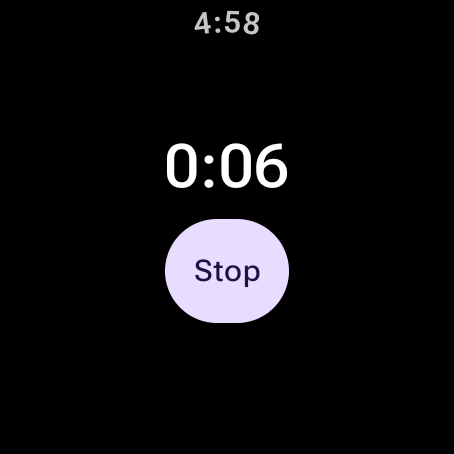
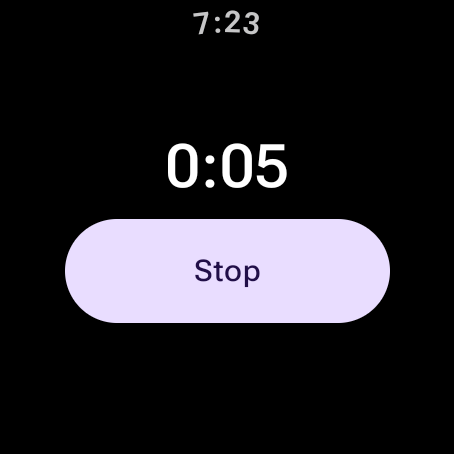
feat(ui): UI review changes and Material You theme
Wider Stop for wet hands, Summary leads with 'n of 5 look covered', tonal History rows with a shorter too-short hint, Wrist side as two radio buttons, and the notification permission asked on the first Start tap. The theme uses the device's dynamicColorScheme and falls back to the default palette. Audit screenshots retaken.

diff --git a/wear/src/main/java/com/hapticwash/ui/MainActivity.kt b/wear/src/main/java/com/hapticwash/ui/MainActivity.kt
@@ -44,7 +44,9 @@ import androidx.wear.compose.material3.CircularProgressIndicator
 import androidx.wear.compose.material3.CircularProgressIndicatorDefaults
 import androidx.wear.compose.material3.FilledTonalButton
 import androidx.wear.compose.material3.ListHeader
+import androidx.wear.compose.material3.ListSubHeader
 import androidx.wear.compose.material3.MaterialTheme
+import androidx.wear.compose.material3.RadioButton
 import androidx.wear.compose.material3.ScreenScaffold
 import androidx.wear.compose.material3.SwitchButton
 import androidx.wear.compose.material3.Text
@@ -103,19 +105,24 @@ private fun StartScreen(onWash: () -> Unit, onHistory: () -> Unit, onSettings: (
     val context = LocalContext.current
     val status by WashService.status.collectAsState()
     var timerOnly by remember { mutableStateOf(false) }
-    val askNotifications = rememberLauncherForActivityResult(ActivityResultContracts.RequestPermission()) {}
+    fun begin() {
+        if (!status.running) WashService.start(context)
+        onWash()
+    }
+    // Asked on the first Start, not at launch; the Wash begins whatever the answer.
+    val askNotifications = rememberLauncherForActivityResult(ActivityResultContracts.RequestPermission()) { begin() }
     LaunchedEffect(Unit) {
         // Loads the model off the main thread; also the release smoke check's log line.
         timerOnly = withContext(Dispatchers.Default) { StepModel.bundled(context) == null }
-        if (context.checkSelfPermission(Manifest.permission.POST_NOTIFICATIONS) != PackageManager.PERMISSION_GRANTED) {
-            askNotifications.launch(Manifest.permission.POST_NOTIFICATIONS)
-        }
     }
     ListScreen {
         item { ListHeader { Text(stringResource(R.string.app_name)) } }
         item {
             Button(
-                onClick = { if (!status.running) WashService.start(context); onWash() },
+                onClick = {
+                    if (context.checkSelfPermission(Manifest.permission.POST_NOTIFICATIONS) == PackageManager.PERMISSION_GRANTED) begin()
+                    else askNotifications.launch(Manifest.permission.POST_NOTIFICATIONS)
+                },
                 modifier = Modifier.fillMaxWidth(),
                 label = { Text(stringResource(if (status.running) R.string.session_running else R.string.start_wash)) },
             )
@@ -162,7 +169,8 @@ private fun WashScreen(onEnd: (Long) -> Unit) {
             ) {
                 Text(duration(elapsedS), style = MaterialTheme.typography.displayMedium)
                 if (status.timerOnly) Notice(stringResource(R.string.timer_only))
-                Button(onClick = { WashService.stop(context) }, label = { Text(stringResource(R.string.stop_wash)) })
+                // Wide: wet, soapy fingers miss small targets.
+                Button(onClick = { WashService.stop(context) }, modifier = Modifier.fillMaxWidth(0.8f), label = { Text(stringResource(R.string.stop_wash), Modifier.fillMaxWidth(), textAlign = TextAlign.Center) })
             }
         }
     }
@@ -178,17 +186,22 @@ private fun SummaryScreen(id: Long?) {
     val steps = stringArrayResource(R.array.steps)
     ListScreen {
         if (wash == null) return@ListScreen
-        item { ListHeader { Text(duration(wash.durationS)) } }
+        val shown = wash.modelVersion != null && wash.coverageShown
+        // The takeaway first, so the answer is on screen before any scrolling.
+        item { ListHeader { Text(if (shown) stringResource(R.string.history_hint, wash.coverage.count { it.status == StepStatus.OK }) else duration(wash.durationS)) } }
         when {
             wash.modelVersion == null -> item { Notice(stringResource(R.string.timer_only)) }
             !wash.coverageShown -> item { Notice(stringResource(R.string.too_short)) }
-            else -> items(wash.coverage) { c ->
-                // Icon and text, never colour alone (§4.1.10); the glyph is read as the text.
-                Row(Modifier.fillMaxWidth().padding(horizontal = 16.dp).semantics(mergeDescendants = true) {}, horizontalArrangement = Arrangement.spacedBy(8.dp)) {
-                    Text(glyph(c.status), Modifier.width(20.dp).clearAndSetSemantics {}, style = MaterialTheme.typography.titleMedium, textAlign = TextAlign.Center)
-                    Column {
-                        Text(steps[c.label - 1], style = MaterialTheme.typography.titleSmall)
-                        Text(stringResource(statusText(c.status)), style = MaterialTheme.typography.bodySmall)
+            else -> {
+                item { Notice(duration(wash.durationS)) }
+                items(wash.coverage) { c ->
+                    // Icon and text, never colour alone (§4.1.10); the glyph is read as the text.
+                    Row(Modifier.fillMaxWidth().padding(horizontal = 16.dp).semantics(mergeDescendants = true) {}, horizontalArrangement = Arrangement.spacedBy(8.dp)) {
+                        Text(glyph(c.status), Modifier.width(20.dp).clearAndSetSemantics {}, style = MaterialTheme.typography.titleMedium, textAlign = TextAlign.Center)
+                        Column {
+                            Text(steps[c.label - 1], style = MaterialTheme.typography.titleSmall)
+                            Text(stringResource(statusText(c.status)), style = MaterialTheme.typography.bodySmall)
+                        }
                     }
                 }
             }
@@ -204,7 +217,7 @@ private fun HistoryScreen(onOpen: (Long) -> Unit) {
         item { ListHeader { Text(stringResource(R.string.history)) } }
         if (washes.isEmpty()) item { Notice(stringResource(R.string.history_empty)) }
         items(washes) { w ->
-            Button(
+            FilledTonalButton(
                 onClick = { onOpen(w.id) },
                 modifier = Modifier.fillMaxWidth(),
                 label = { Text(DateUtils.formatDateTime(context, w.startedAtEpochMs, DateUtils.FORMAT_SHOW_DATE or DateUtils.FORMAT_SHOW_TIME or DateUtils.FORMAT_ABBREV_MONTH)) },
@@ -223,15 +236,19 @@ private fun SettingsScreen() {
     var ring by remember { mutableStateOf(settings.progressRing) }
     ListScreen {
         item { ListHeader { Text(stringResource(R.string.settings)) } }
-        item {
-            // Two options: a tap toggles, no dialog (§4.1.5). Applies from the next Wash.
-            FilledTonalButton(
-                onClick = { wrist = if (wrist == Wrist.LEFT) Wrist.RIGHT else Wrist.LEFT; settings.wrist = wrist },
-                modifier = Modifier.fillMaxWidth(),
-                label = { Text(stringResource(R.string.wrist_side)) },
-                secondaryLabel = { Text(stringResource(if (wrist == Wrist.LEFT) R.string.wrist_left else R.string.wrist_right)) },
-            )
+        // Two visible options, no dialog (§4.1.5). Read at Wash start, so a change applies from the next Wash.
+        item { ListSubHeader { Text(stringResource(R.string.wrist_side)) } }
+        for ((side, name) in listOf(Wrist.LEFT to R.string.wrist_left, Wrist.RIGHT to R.string.wrist_right)) {
+            item {
+                RadioButton(
+                    selected = wrist == side,
+                    onSelect = { wrist = side; settings.wrist = side },
+                    modifier = Modifier.fillMaxWidth(),
+                    label = { Text(stringResource(name)) },
+                )
+            }
         }
+        item { Notice(stringResource(R.string.applies_next_wash)) }
         item {
             SwitchButton(haptics, { haptics = it; settings.haptics = it }, Modifier.fillMaxWidth(), label = { Text(stringResource(R.string.haptics)) })
         }
@@ -258,7 +275,7 @@ private fun Notice(text: String) =
 @Composable
 private fun hint(w: WashSession): String = when {
     w.modelVersion == null -> stringResource(R.string.timer_only_short)
-    !w.coverageShown -> stringResource(R.string.too_short)
+    !w.coverageShown -> stringResource(R.string.too_short_short)
     else -> stringResource(R.string.history_hint, w.coverage.count { it.status == StepStatus.OK })
 }
 

diff --git a/wear/src/main/java/com/hapticwash/ui/theme/Theme.kt b/wear/src/main/java/com/hapticwash/ui/theme/Theme.kt
@@ -1,17 +1,20 @@
 package com.hapticwash.ui.theme
 
 import androidx.compose.runtime.Composable
+import androidx.compose.runtime.remember
+import androidx.compose.ui.platform.LocalContext
+import androidx.wear.compose.material3.ColorScheme
 import androidx.wear.compose.material3.MaterialTheme
+import androidx.wear.compose.material3.dynamicColorScheme
 
+/** Material You: the colours the watch derives from its theme. Default palette where the device offers none. */
 @Composable
 fun HapticWashTheme(
     content: @Composable () -> Unit
 ) {
-    /**
-     * Empty theme to customize for your app.
-     * See: https://developer.android.com/jetpack/compose/designsystems/custom
-     */
+    val context = LocalContext.current
     MaterialTheme(
+        colorScheme = remember(context) { dynamicColorScheme(context) } ?: ColorScheme(),
         content = content
     )
 }

diff --git a/docs/UX_AUDIT.md b/docs/UX_AUDIT.md
@@ -33,9 +33,9 @@ Columns are the screens: **St** Start, **IP** In-progress, **Su** Summary, **Hi*
 |---|---|---|---|---|---|---|---|
 | 1 | Glanceable < 5 s | ✓ | ✓ | ✓ | ✓ | ✓ | Each screen has one header and short lines. Summary is five rows of a Step name and its Status. |
 | 2 | Round-safe, scaling list, `TimeText` | ✓ | ✓ | ✓ | ✓ | ✓ | Lists use `TransformingLazyColumn`, the Wear Material 3 successor to `ScalingLazyColumn`. `TimeText` comes from `AppScaffold` on every screen. In-progress is centred and not scrollable. The ring leaves a 60° gap at the top for `TimeText` (fixed in this audit: it used to run under the clock). |
-| 3 | Touch targets ≥ 48 dp; one primary action | ✓ | ✓ | — | ✓ | ✓ | Buttons are 203 × 52 dp; Stop is 62 × 52 dp; History rows are ≥ 52 dp tall. Start's primary action is Start wash (History and Settings are tonal); In-progress's is Stop. Summary, History and Settings are lists with no primary action, so none has more than one. |
+| 3 | Touch targets ≥ 48 dp; one primary action | ✓ | ✓ | — | ✓ | ✓ | Buttons are 203 × 52 dp; Stop is 162 × 52 dp (widened after review); History rows are ≥ 52 dp tall. Start's primary action is Start wash (History and Settings are tonal); In-progress's is Stop. Summary, History and Settings are lists with no primary action, so none has more than one. |
 | 4 | One-tap start | ✓ | — | — | — | — | Start wash is the first item. A single tap starts the service and opens In-progress. |
-| 5 | No text entry; dialogs ≤ 2 options; depth ≤ 2 | ✓ | ✓ | ✓ | ✓ | ✓ | No text fields. The only dialog is the system notification permission (Allow / Don't allow). Wrist side is a two-state tap toggle. Deepest paths: Start → In-progress → Summary (In-progress is popped) and Start → History → Summary. Swipe-to-dismiss works from In-progress, Summary, History and Settings. A swipe mid-Wash leaves it running; Start then shows "Wash in progress" and returns to In-progress. |
+| 5 | No text entry; dialogs ≤ 2 options; depth ≤ 2 | ✓ | ✓ | ✓ | ✓ | ✓ | No text fields. The only dialog is the system notification permission (Allow / Don't allow), now asked on the first Start tap. Wrist side is two radio buttons. Deepest paths: Start → In-progress → Summary (In-progress is popped) and Start → History → Summary. Swipe-to-dismiss works from In-progress, Summary, History and Settings. A swipe mid-Wash leaves it running; Start then shows "Wash in progress" and returns to In-progress. |
 | 6 | Haptics, patterns, ≤ 1 per 3 s | — | ✓ | ◐ | — | ✓ | From `dumpsys vibrator_manager`: start 80 ms; end 80 + 120 + 80 ms; missed-step 600 ms, starting 3.2 s after the end pulses start (13 s Wash, all `NOT_DETECTED`). A too-short Wash and a Timer-only Wash each got only start and end. Replays are silent. The Haptics setting is read at fire time (unit-tested in `HapticsTest`). See note A. |
 | 7 | Ambient / screen-off | — | ✓ | — | — | — | `KEYCODE_SLEEP` mid-Wash put the device in `Dozing`: 17 windows logged in 25 s (1.5 s stride), and on wake the Wash was still running at 0:45. No crash in logcat. |
 | 8 | Battery honesty | — | ✓ | — | — | ✓ | After Stop: 0 active `sensorservice` connections for the app, and the `HapticWash:session` wake lock was released in the same ms the Wash ended. Always-on is a disabled switch labelled "Coming later". Its battery warning belongs to M5. |
@@ -54,6 +54,24 @@ label (`uiautomator dump`: each clickable node wraps exactly its label and secon
 label). Compose uses that text as the spoken name, so there is no separate
 `contentDescription` to set. A live TalkBack pass on the AVD got stuck in its tutorial,
 which also doesn't log what it speaks. Hence ◐: the labels are checked structurally, the spoken output is not. Repeat it on hardware (M6).
+
+## Changes after the audit
+
+Made the same day on the same AVD, from a UI review. `MainActivity.kt` and `Theme.kt` only.
+
+- **Stop** is wider (162 × 52 dp) so wet, soapy fingers hit it.
+- **Summary** leads with "n of 5 look covered", then the duration, then the five rows.
+- **History** rows are tonal buttons, and a too-short Wash reads "Too short".
+- **Wrist side** is two radio buttons with "Applies from the next wash" under them.
+- **Notification permission** is asked on the first Start tap, not at launch. The Wash starts
+  whatever the answer.
+- **Theme** follows the device's Material You colours (`dynamicColorScheme`) and falls back to
+  the default palette. This AVD returns no dynamic scheme, so only the fallback was seen; the
+  dynamic path is unchecked until a watch that has it (M6).
+
+Screenshots retaken: In-progress (ring off and on), Summary (mixed), History, Settings. Start,
+Summary (too short, Timer-only), History (empty) are unchanged by these edits.
+`in_progress_timer_only.png` shows the old narrow Stop; it needs a corrupt-model build to retake.
 
 ## Other M4 checks
 
